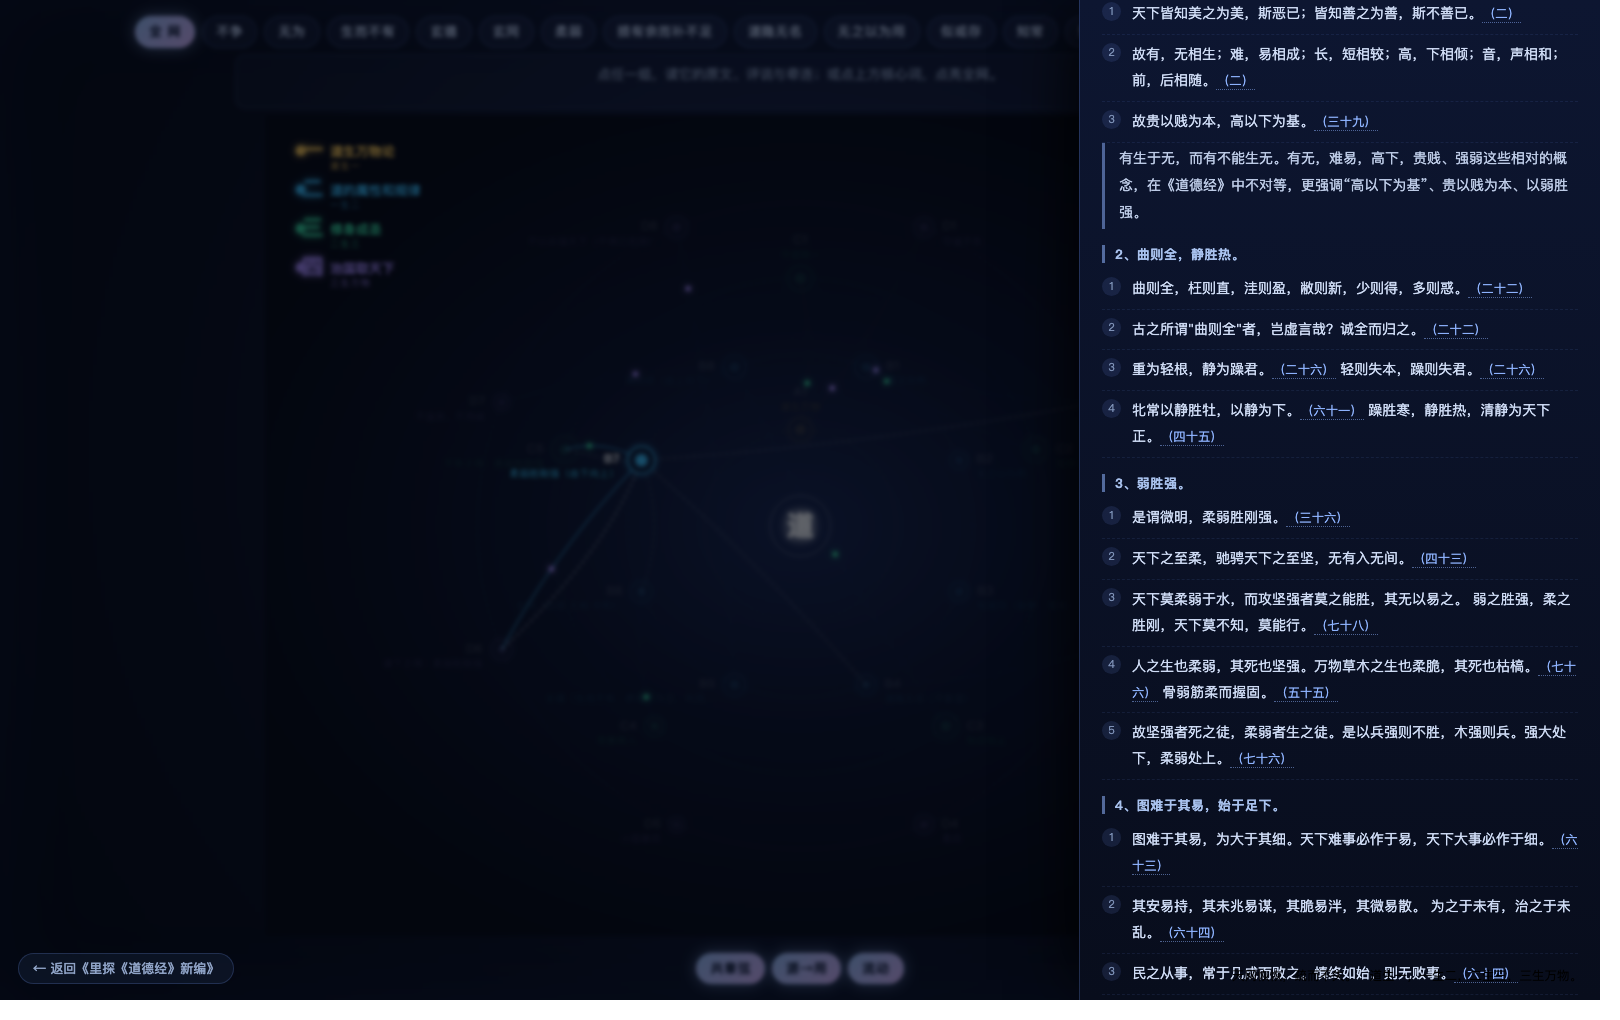
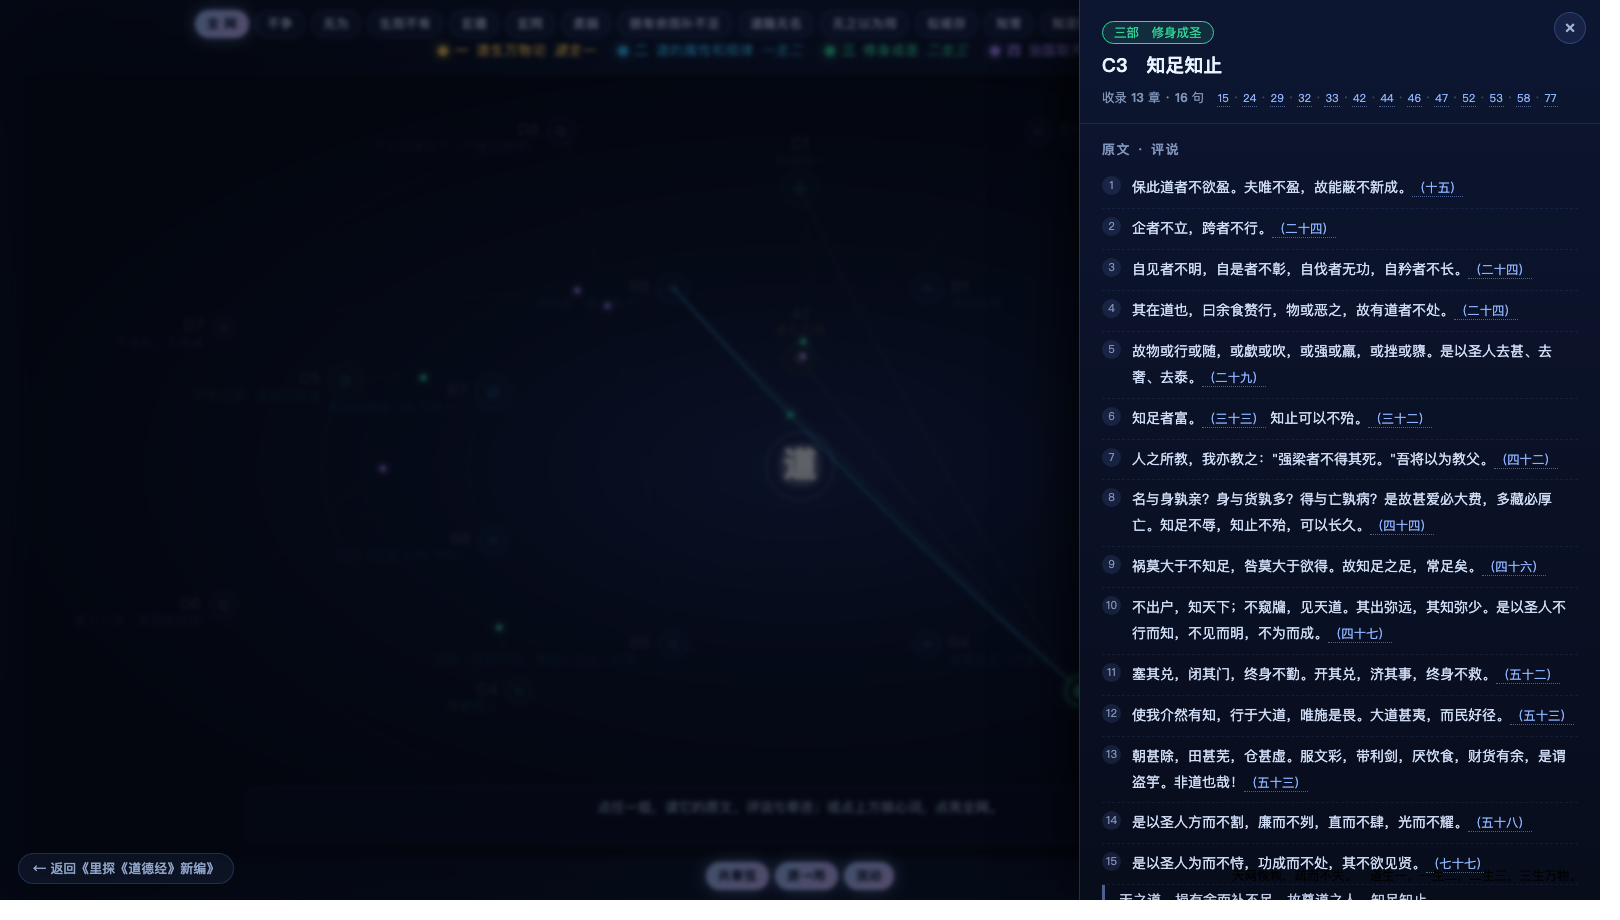
天道大网：铺满全屏 + 返回指向新编
问题：全屏页里图只有中间一小块，看不清

原因与修法
1. SVG 未撑满舞台——standalone 下 width/height 为 auto，缩成了默认尺寸
   → 改为 width/height 100%，由 preserveAspectRatio 自适应
2. viewBox 为左上角图例留了大片空白
   → 图例移出 SVG 改由 HTML 横排承载；viewBox 收紧 1980×1520 → 2560×1290
3. 同心圆在宽屏必然留边
   → 环与节点改横向拉宽（AX=1.72，圆→椭圆），"天网"本就该横展
4. 上方按钮栏与读出栏吃掉舞台高度
   → 按钮栏压缩为一行；读出栏在全屏页改为底部浮层（矮窗口自动隐藏）

其他
- 节点半径与字号适度放大（11+√n×3.4 / 26 / 21）
- 返回链接改为 index.html#/00（原先只到首页，会落在封面）

验证（headless 实渲染）
- 1300×700 与 1760×980 两档均铺满，节点可读
- 抽屉在全屏页正常；预览图已更新

diff --git a/_script/tiandao-net.js b/_script/tiandao-net.js
@@ -12,6 +12,7 @@
   var SEQ   = { '一': '道生一', '二': '一生二', '三': '二生三', '四': '三生万物' };
   var SHORT = { '一': '道生万物论', '二': '道的属性和规律', '三': '修身成圣', '四': '治国取天下' };
   var OFF   = { '一': 0, '二': Math.PI / 8, '三': 0, '四': Math.PI / 8 };
+  var AX = 1.72, AY = 1.0;   /* 横向拉宽，铺满宽屏 */
   var NS = 'http://www.w3.org/2000/svg';
   var CN = { 零: 0, 一: 1, 二: 2, 三: 3, 四: 4, 五: 5, 六: 6, 七: 7, 八: 8, 九: 9 };
   var byId = {};
@@ -94,11 +95,11 @@
       var list = groups[d], R = RING[d], off = OFF[d];
       list.forEach(function (n, i) {
         var a = -Math.PI / 2 + off + (i * 2 * Math.PI) / list.length;
-        pos[n.id] = { x: Math.cos(a) * R, y: Math.sin(a) * R, a: a, r: 10 + Math.sqrt(n.n) * 3.1 };
+        pos[n.id] = { x: Math.cos(a) * R * AX, y: Math.sin(a) * R * AY, a: a, r: 11 + Math.sqrt(n.n) * 3.4 };
       });
     });
 
-    var W = 1980, H = 1520;
+    var W = 2560, H = 1290;
     var svg = el('svg', {
       viewBox: (-W / 2) + ' ' + (-H / 2) + ' ' + W + ' ' + H,
       class: 'tdn-svg', preserveAspectRatio: 'xMidYMid meet'
@@ -119,22 +120,11 @@
     var gRing = el('g'), gChord = el('g'), gRadial = el('g'), gPulse = el('g'), gNode = el('g');
     [gRing, gChord, gRadial, gPulse, gNode].forEach(function (g) { svg.appendChild(g); });
 
-    order.forEach(function (d, idx) {
+    order.forEach(function (d) {
       var R = RING[d], c = COLOR[d];
-      gRing.appendChild(el('circle', {
-        cx: 0, cy: 0, r: R, fill: 'none', stroke: c, 'stroke-opacity': 0.26,
-        'stroke-width': 1.4, 'stroke-dasharray': '3 9'
-      }));
-      var ly0 = -H / 2 + 78, step = 72, lx0 = -W / 2 + 54;
-      gRing.appendChild(el('circle', { cx: lx0 + 12, cy: ly0 + idx * step - 12, r: 9, fill: c, filter: 'url(#tdn-glow)' }));
-      gRing.appendChild(tx(lx0 + 34, ly0 + idx * step, NUM[d], {
-        fill: c, 'font-size': 40, 'font-weight': 700, 'text-anchor': 'middle', filter: 'url(#tdn-glow)'
-      }));
-      gRing.appendChild(tx(lx0 + 66, ly0 + idx * step - 2, SHORT[d], {
-        fill: c, 'font-size': 24, 'font-weight': 600, 'text-anchor': 'start'
-      }));
-      gRing.appendChild(tx(lx0 + 66, ly0 + idx * step + 22, SEQ[d], {
-        fill: c, 'fill-opacity': 0.62, 'font-size': 17, 'text-anchor': 'start', 'letter-spacing': 2
+      gRing.appendChild(el('ellipse', {
+        cx: 0, cy: 0, rx: R * AX, ry: R * AY, fill: 'none', stroke: c,
+        'stroke-opacity': 0.26, 'stroke-width': 1.4, 'stroke-dasharray': '3 9'
       }));
     });
 
@@ -182,11 +172,11 @@
       else if (cos > 0) { anchor = 'start'; lx = p.x + r + 16; ly = p.y + 6; }
       else { anchor = 'end'; lx = p.x - r - 16; ly = p.y + 6; }
       g.appendChild(tx(lx, ly, n.id, {
-        fill: '#e8eefc', 'font-size': 23, 'font-weight': 700, 'text-anchor': anchor,
+        fill: '#e8eefc', 'font-size': 26, 'font-weight': 700, 'text-anchor': anchor,
         style: 'paint-order:stroke;stroke:#04060f;stroke-width:5'
       }));
       g.appendChild(tx(lx, ly + 26, n.name.length > 16 ? n.name.slice(0, 16) + '…' : n.name, {
-        fill: c, 'font-size': 18.5, 'text-anchor': anchor, 'fill-opacity': 0.95,
+        fill: c, 'font-size': 21, 'text-anchor': anchor, 'fill-opacity': 0.95,
         style: 'paint-order:stroke;stroke:#04060f;stroke-width:5'
       }));
       gNode.appendChild(g); nodeEls[n.id] = g;
@@ -196,7 +186,7 @@
     gc.appendChild(el('circle', { cx: 0, cy: 0, r: 56, fill: 'none', stroke: '#f8fafc', 'stroke-opacity': .38, 'stroke-width': 1.4 }));
     gc.appendChild(el('circle', { cx: 0, cy: 0, r: 34, fill: '#f8fafc', opacity: .13, filter: 'url(#tdn-glow)' }));
     gc.appendChild(tx(0, 16, '道', {
-      fill: '#f8fafc', 'font-size': 50, 'font-weight': 700, 'text-anchor': 'middle', filter: 'url(#tdn-glow)'
+      fill: '#f8fafc', 'font-size': 56, 'font-weight': 700, 'text-anchor': 'middle', filter: 'url(#tdn-glow)'
     }));
     gNode.appendChild(gc);
 
@@ -348,7 +338,13 @@
         });
       };
     });
+    var legend = document.createElement('div');
+    legend.className = 'tdn-legend';
+    legend.innerHTML = ['一', '二', '三', '四'].map(function (d) {
+      return '<span style="--c:' + COLOR[d] + '"><b>' + d + '</b>' + SHORT[d] + '<i>' + SEQ[d] + '</i></span>';
+    }).join('');
     host.insertBefore(bar, ctx.stage);
+    host.insertBefore(legend, ctx.stage);
     host.insertBefore(readout, ctx.stage);
 
     Object.keys(ctx.nodeEls).forEach(function (id) {

diff --git a/_style/tiandao-net.css b/_style/tiandao-net.css
@@ -9,14 +9,14 @@
 .tdn-svg { display: block; width: 100%; height: auto; }
 .tdn-node { transition: opacity .25s; }
 
-.tdn-chips { display: flex; flex-wrap: wrap; gap: 7px; justify-content: center;
-  padding: 10px 8px 4px; position: relative; z-index: 2; }
+.tdn-chips { display: flex; flex-wrap: wrap; gap: 6px; justify-content: center;
+  padding: 8px 8px 4px; position: relative; z-index: 2; }
 .tdn-toggles { padding: 6px 8px 12px; }
 .tdn-chip {
-  font: 500 13px/1.5 -apple-system, "PingFang SC", "Microsoft YaHei", sans-serif;
+  font: 500 12.5px/1.45 -apple-system, "PingFang SC", "Microsoft YaHei", sans-serif;
   color: #b9c9e8; background: rgba(120,160,255,.09);
   border: 1px solid rgba(120,160,255,.26); border-radius: 999px;
-  padding: 5px 13px; cursor: pointer; letter-spacing: .05em;
+  padding: 4px 11px; cursor: pointer; letter-spacing: .04em;
   transition: all .2s;
 }
 .tdn-chip:hover { color: #eaf1ff; border-color: rgba(150,190,255,.6);
@@ -133,14 +133,23 @@ body.tdn-standalone .tdn-wrap {
   display: flex; flex-direction: column;
 }
 body.tdn-standalone .tdn-stage {
-  flex: 1; min-height: 0; display: flex; align-items: center; justify-content: center;
+  flex: 1 1 auto; min-height: 0; display: block; position: relative;
 }
 body.tdn-standalone .tdn-stage .tdn-svg {
-  width: auto; height: auto; max-width: 100%; max-height: 100%;
+  display: block; width: 100%; height: 100%;
 }
-body.tdn-standalone .tdn-chips { padding-top: 16px; }
-body.tdn-standalone .tdn-readout { margin: 2px auto 6px; max-width: 1100px; width: calc(100% - 32px); }
-body.tdn-standalone .tdn-toggles { padding-bottom: 16px; }
+body.tdn-standalone .tdn-chips { padding: 10px 12px 3px; }
+body.tdn-standalone .tdn-legend { padding: 0 12px 5px; }
+body.tdn-standalone .tdn-readout {
+  position: absolute; left: 50%; bottom: 58px; transform: translateX(-50%);
+  width: min(1080px, calc(100% - 320px)); margin: 0; z-index: 12;
+  backdrop-filter: blur(8px); background: rgba(9,14,32,.82);
+}
+body.tdn-standalone .tdn-toggles { padding: 4px 12px 10px; }
+@media (max-height: 700px) {
+  body.tdn-standalone .tdn-chips { padding-top: 6px; }
+  body.tdn-standalone .tdn-readout { display: none; }
+}
 
 .tdn-back { position: fixed; left: 18px; bottom: 16px; z-index: 30;
   font: 500 13px/1 -apple-system, "PingFang SC", "Microsoft YaHei", sans-serif;
@@ -151,3 +160,12 @@ body.tdn-standalone .tdn-toggles { padding-bottom: 16px; }
   font: 400 12.5px/1 -apple-system, "PingFang SC", "Microsoft YaHei", sans-serif;
   .tdn-quote { color: #55658a; letter-spacing: .1em; }
 @media (max-width: 900px) { .tdn-quote { display: none; } }
+
+/* 部图例（全屏页横排） */
+.tdn-legend { display: flex; flex-wrap: wrap; gap: 4px 18px; justify-content: center;
+  font-size: 12.5px; letter-spacing: .04em; }
+.tdn-legend span { color: var(--c); display: inline-flex; align-items: baseline; gap: 6px; }
+.tdn-legend span b { font-size: 15px; }
+.tdn-legend span i { font-style: normal; opacity: .45; font-size: 11.5px; letter-spacing: .1em; }
+.tdn-legend span::before { content: ''; width: 8px; height: 8px; border-radius: 50%;
+  background: var(--c); box-shadow: 0 0 8px var(--c); align-self: center; }

diff --git a/wang.html b/wang.html
@@ -13,7 +13,7 @@
 <body class="tdn-standalone">
   <div class="tdn-wrap" id="tiandao-net"></div>
 
-  <a class="tdn-back" href="index.html">← 返回《里探《道德经》新编》</a>
+  <a class="tdn-back" href="index.html#/00">← 返回《里探《道德经》新编》</a>
   <p class="tdn-quote">天网恢恢，疏而不失。　道生一，一生二，二生三，三生万物。</p>
 
   <script src="_script/tiandao-net.js"></script>
